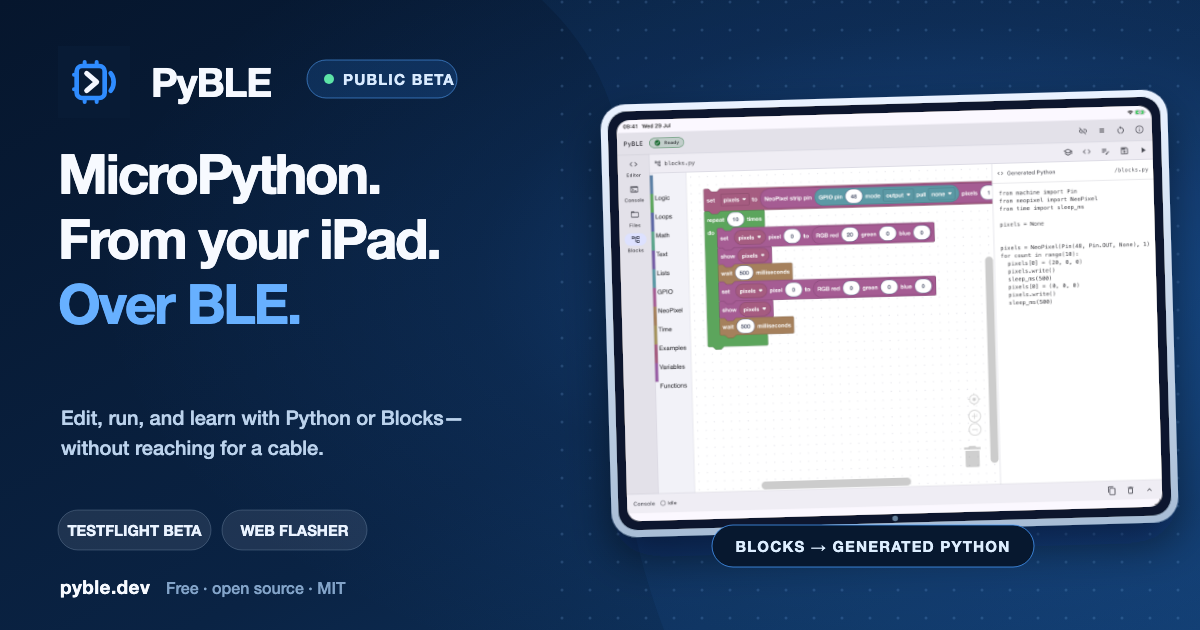
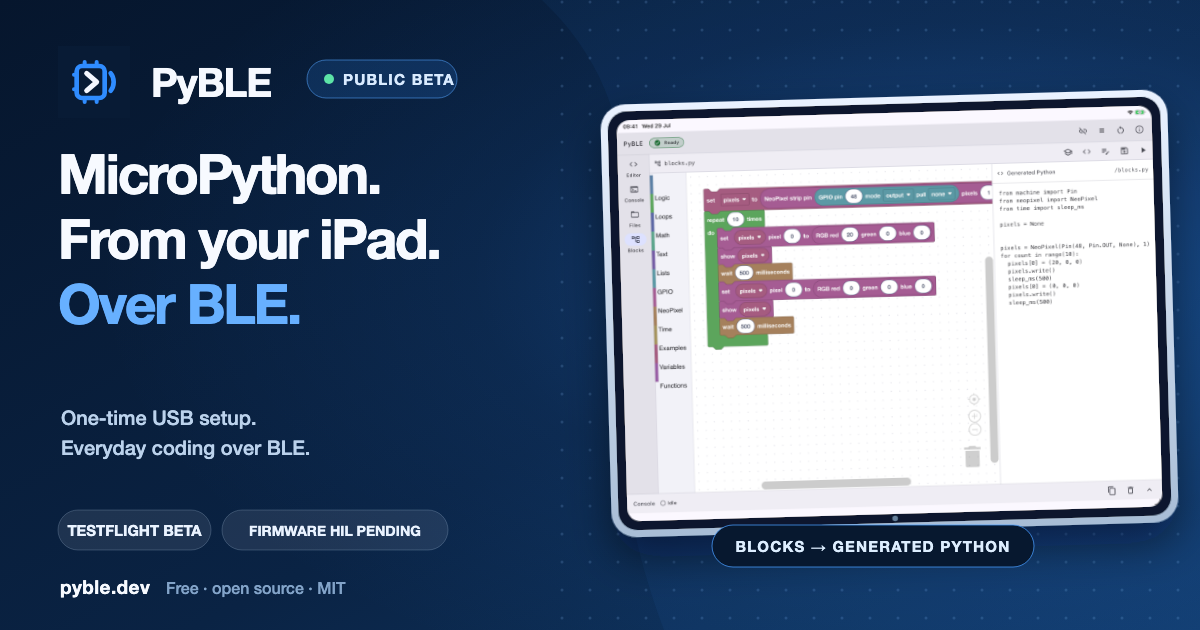
[green] Correct pre-activation public claims

Changed region(s): [[0.0308, 0.6333, 0.37, 0.7238], [0.185, 0.8143, 0.37, 0.8746]]

diff --git a/tools/web/src/app/page.tsx b/tools/web/src/app/page.tsx
@@ -57,7 +57,7 @@ const steps = [
   {
     number: "01",
     title: "Provision once",
-    body: "Install matching PyBLE-enabled MicroPython firmware once. Initial beta images are available for compatible ESP32 targets.",
+    body: "After v0.4.2 passes HIL, use USB once to install the exact matching PyBLE-enabled MicroPython profile. The public installer is unavailable during qualification.",
   },
   {
     number: "02",
@@ -87,10 +87,11 @@ export default function HomePage() {
             <h1>Code your MicroPython board. Leave the cable behind.</h1>
             <p className="hero__lede">
               PyBLE is a free, tablet-first IDE designed for boards that run
-              MicroPython and support Bluetooth Low Energy. The current firmware
-              release supports qualified classic ESP32 and ESP32-S3 module
-              profiles. ESP32-C3 and more microcontroller families remain
-              planned.
+              MicroPython and support Bluetooth Low Energy. Public v0.4.2
+              firmware is pending HIL for the exact esp32-4mb and esp32-s3-n16r8
+              profiles. The public browser installer stays unavailable until
+              both exact profiles pass HIL. ESP32-C3 and more microcontroller
+              families remain planned.
             </p>
             <div className="button-row">
               <Link className="button button--primary" href="#testflight">
@@ -248,11 +249,11 @@ export default function HomePage() {
               {initialFirmwareTargets.map((target) => (
                 <div
                   className={
-                    target.availability === "Planned profile"
+                    target.planned
                       ? "target-grid__target target-grid__target--planned"
                       : "target-grid__target"
                   }
-                  key={target.name}
+                  key={target.id}
                 >
                   <span className="target-grid__chip" aria-hidden="true">
                     <i />
@@ -260,8 +261,14 @@ export default function HomePage() {
                     <i />
                     <i />
                   </span>
-                  <strong>{target.name}</strong>
-                  <small>{target.availability}</small>
+                  <strong>{target.id}</strong>
+                  <span className="target-grid__target-name">
+                    {target.target}
+                  </span>
+                  <small className="target-grid__constraint">
+                    {target.constraint}
+                  </small>
+                  <small className="target-grid__status">{target.status}</small>
                 </div>
               ))}
             </div>
@@ -339,9 +346,10 @@ export default function HomePage() {
             <p className="eyebrow">External testing is open</p>
             <h2 id="testflight-title">Join the PyBLE beta on TestFlight.</h2>
             <p className="beta-invite__lede">
-              Install the free iPad beta through Apple TestFlight. Then use
-              desktop Chrome to provision a supported board and start coding
-              over Bluetooth Low Energy.
+              Install the free iPad beta through Apple TestFlight now. Public
+              board provisioning will open only after v0.4.2 passes HIL on both
+              exact release profiles; after that one-time USB setup, everyday
+              coding runs over Bluetooth Low Energy.
             </p>
             <div className="button-row beta-invite__actions">
               <a
@@ -354,7 +362,7 @@ export default function HomePage() {
                 <ArrowIcon />
               </a>
               <Link className="button button--secondary" href="/flash">
-                Install board firmware
+                Check firmware status
               </Link>
             </div>
           </div>

diff --git a/tools/web/src/app/support/page.tsx b/tools/web/src/app/support/page.tsx
@@ -1,7 +1,7 @@
 // SPDX-License-Identifier: MIT
 // Part of PyBLE (https://pyble.dev) — see /LICENSE.
 
-import { MailIcon } from "@/components/icons";
+import { ExternalIcon, MailIcon } from "@/components/icons";
 import { PageIntro } from "@/components/page-intro";
 import { pageMetadata, siteConfig } from "@/lib/site";
 
@@ -13,11 +13,15 @@ export const metadata = pageMetadata({
 });
 
 const diagnosticItems = [
-  "Board and chip family",
+  "Exact installer profile ID (or “not installer-related”)",
+  "Exact board model and module marking",
+  "Flash capacity, PSRAM capacity, and PSRAM type",
+  "Browser name/version and desktop OS name/version",
+  "Failed installer stage and redacted error text",
+  "Exact tablet or device model",
+  "Tablet OS: iPadOS or Android name/version",
   "PyBLE app and agent versions",
-  "iPadOS or Android version",
   "The exact steps that caused the problem",
-  "Relevant console text and a screenshot",
 ] as const;
 
 export default function SupportPage() {
@@ -38,12 +42,12 @@ export default function SupportPage() {
               <li>
                 <span>1</span>
                 <div>
-                  <h3>Install the matching firmware once</h3>
+                  <h3>Check firmware status before installing</h3>
                   <p>
-                    The public installer supports only esp32-4mb and
-                    esp32-s3-n16r8. ESP32-C3 is not currently available. Use the
-                    reviewed image supplied for your exact target; this initial
-                    step uses a cable.
+                    The public installer is unavailable while v0.4.2 HIL runs
+                    for esp32-4mb and esp32-s3-n16r8. ESP32-C3 is not currently
+                    available. Wait for the installer status to show an active
+                    release and enabled action; this initial step uses a cable.
                   </p>
                 </div>
               </li>
@@ -139,7 +143,7 @@ export default function SupportPage() {
         <aside className="report-card">
           <MailIcon />
           <p className="eyebrow">Send a useful report</p>
-          <h2>Include these five things</h2>
+          <h2>Include these exact details</h2>
           <ul>
             {diagnosticItems.map((item) => (
               <li key={item}>{item}</li>
@@ -147,13 +151,21 @@ export default function SupportPage() {
           </ul>
           <a
             className="button button--primary"
-            href={`mailto:${siteConfig.supportEmail}`}
+            href={siteConfig.bugReportUrl}
+            target="_blank"
+            rel="noopener noreferrer"
           >
-            {siteConfig.supportEmail}
+            Open the GitHub bug template
+            <ExternalIcon />
           </a>
           <p className="fine-print">
             Please remove Wi-Fi passwords, access tokens, and other private data
-            from screenshots or code before sending.
+            and personal identifiers from screenshots or code before sending.
+            For a private, non-security support question, email{" "}
+            <a href={`mailto:${siteConfig.supportEmail}`}>
+              {siteConfig.supportEmail}
+            </a>
+            .
           </p>
         </aside>
       </div>

diff --git a/tools/web/src/lib/site.ts b/tools/web/src/lib/site.ts
@@ -13,6 +13,8 @@ export const siteConfig = {
   supportEmail: "viwat.v@chula.ac.th",
   testFlightUrl: "https://testflight.apple.com/join/yU4e8s6d",
   repositoryUrl: "https://github.com/PyBLE-dev/PyBLE",
+  bugReportUrl:
+    "https://github.com/PyBLE-dev/PyBLE/issues/new?template=bug.yml",
 } as const;
 
 export const navigation = [
@@ -23,9 +25,27 @@ export const navigation = [
 ] as const;
 
 export const initialFirmwareTargets = [
-  { name: "ESP32", availability: "Released profile" },
-  { name: "ESP32-S3", availability: "Released profile" },
-  { name: "ESP32-C3", availability: "Planned profile" },
+  {
+    id: "esp32-4mb",
+    target: "Classic ESP32",
+    constraint: "4 MiB external SPI flash · no PSRAM assumed",
+    status: "v0.4.2 HIL pending · installer unavailable",
+    planned: false,
+  },
+  {
+    id: "esp32-s3-n16r8",
+    target: "ESP32-S3 N16R8",
+    constraint: "16 MiB flash · 8 MiB Octal PSRAM",
+    status: "v0.4.2 HIL pending · installer unavailable",
+    planned: false,
+  },
+  {
+    id: "esp32-c3-4mb",
+    target: "ESP32-C3",
+    constraint: "4 MiB external SPI flash · no PSRAM assumed",
+    status: "Planned · installer unavailable pending exact-profile HIL",
+    planned: true,
+  },
 ] as const;
 
 export function absoluteUrl(path: string): string {

diff --git a/tools/web/src/app/globals.css b/tools/web/src/app/globals.css
@@ -999,7 +999,7 @@ h3 {
 .target-grid > div {
   display: flex;
   min-width: 0;
-  min-height: 190px;
+  min-height: 275px;
   padding: 25px 17px;
   align-items: center;
   justify-content: flex-end;
@@ -1062,7 +1062,8 @@ h3 {
 
 .target-grid strong {
   color: var(--white);
-  font-size: 0.95rem;
+  font-family: "SFMono-Regular", Consolas, "Liberation Mono", monospace;
+  font-size: 0.78rem;
 }
 
 .target-grid small {
@@ -1070,11 +1071,30 @@ h3 {
   font-size: 0.68rem;
 }
 
+.target-grid__target-name {
+  margin-top: 6px;
+  color: #dceaff;
+  font-size: 0.78rem;
+  font-weight: 700;
+}
+
+.target-grid__constraint {
+  margin-top: 10px;
+  line-height: 1.45;
+}
+
+.target-grid .target-grid__status {
+  margin-top: 9px;
+  color: var(--warning);
+  font-weight: 700;
+  line-height: 1.4;
+}
+
 .target-grid > .target-grid__target--planned {
   border-style: dashed;
 }
 
-.target-grid__target--planned small {
+.target-grid__target--planned .target-grid__status {
   color: var(--warning);
 }
 

diff --git a/README.md b/README.md
@@ -13,7 +13,7 @@ compatible microcontroller board over Bluetooth Low Energy. Its normal
 workflow needs no USB serial connection, Wi-Fi onboarding, cloud account, or
 telemetry.
 
-- Website and browser installer: [pyble.dev](https://pyble.dev)
+- Website and browser-installer status: [pyble.dev](https://pyble.dev)
 - iPad external beta:
   [join with TestFlight](https://testflight.apple.com/join/yU4e8s6d)
 - License: [MIT](LICENSE)
@@ -27,7 +27,7 @@ telemetry.
 </p>
 
 <p align="center">
-  <em>Actual PyBLE app: a GPIO 48 NeoPixel Blocks program and its generated MicroPython on the pictured ESP32-S3 board.</em>
+  <em>Actual PyBLE app in landscape: GPIO 48 NeoPixel Blocks beside the generated MicroPython.</em>
 </p>
 
 ## What works
@@ -62,16 +62,17 @@ BLE GATT peripheral. It supports:
 - board naming and identify support; and
 - upstream MicroPython’s standard `neopixel` module.
 
-The public browser installer currently offers qualified images for:
+The public browser installer is currently unavailable pending v0.4.2 HIL on
+both exact current profiles:
 
-| Installer profile | Typical target                     | Availability                                |
-| ----------------- | ---------------------------------- | ------------------------------------------- |
-| `esp32-4mb`       | Classic ESP32, 4 MB flash          | Available                                   |
-| `esp32-s3-n16r8`  | ESP32-S3, 16 MB flash / 8 MB PSRAM | Available                                   |
-| `esp32-c3-4mb`    | ESP32-C3, 4 MB flash               | Source target; public installer pending HIL |
+| Installer profile | Exact target constraint                                      | Public status                                       |
+| ----------------- | ------------------------------------------------------------ | --------------------------------------------------- |
+| `esp32-4mb`       | Classic ESP32, 4 MiB external SPI flash; no PSRAM assumed     | v0.4.2 HIL pending; installer unavailable           |
+| `esp32-s3-n16r8`  | ESP32-S3, 16 MiB flash / 8 MiB Octal PSRAM; N16R8-class only | v0.4.2 HIL pending; installer unavailable           |
+| `esp32-c3-4mb`    | ESP32-C3, 4 MiB external SPI flash; no PSRAM assumed          | Planned; no public image; exact-profile HIL pending |
 
-These are the initial validated ports, not a chip-family allowlist. A future
-board is compatible when it has a maintained PyBLE agent port, BLE GATT
+These are the initial port targets, not a chip-family allowlist. A future board
+is compatible when it has a maintained PyBLE agent port, BLE GATT
 peripheral support, adequate resources, PBLE/1 conformance, recovery testing,
 and hardware-validation evidence. Stock MicroPython plus generic Bluetooth
 hardware is not sufficient by itself.
@@ -102,14 +103,17 @@ shared conformance corpus, documentation, and CI atomically.
 
 ## Try PyBLE
 
-1. Open [pyble.dev/flash](https://pyble.dev/flash) in desktop Chrome or Edge.
-2. Select the exact supported profile for your board and flash the qualified
-   agent firmware. Flashing erases the board; review the installer warning and
-   back up files first.
-3. Install the iPad beta from
+1. Install the iPad beta from
    [TestFlight](https://testflight.apple.com/join/yU4e8s6d), or build the
    Flutter app locally.
-4. Open PyBLE, scan for the board, connect, and run an example.
+2. Check [pyble.dev/flash](https://pyble.dev/flash) in desktop Chrome or Edge.
+   The public installer is currently unavailable pending v0.4.2 HIL. Wait for
+   that page to show an active release version, your exact profile, and an
+   enabled install action.
+3. Only after that gate opens, back up the board, confirm its exact memory
+   profile, and use the one-time wired installer. Flashing erases the board.
+4. Open PyBLE, scan for the provisioned board, connect, and run an example over
+   BLE.
 
 See [support and troubleshooting](https://pyble.dev/support) for browser,
 Bluetooth, and recovery requirements.
